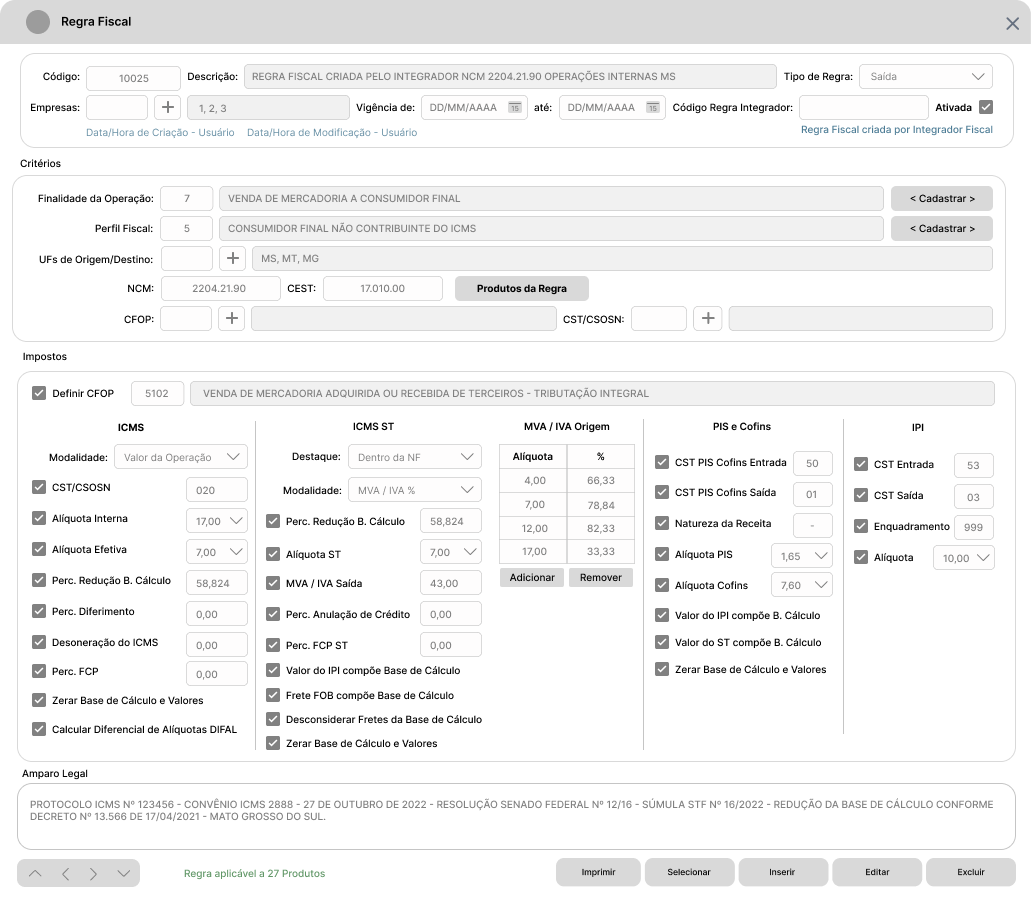
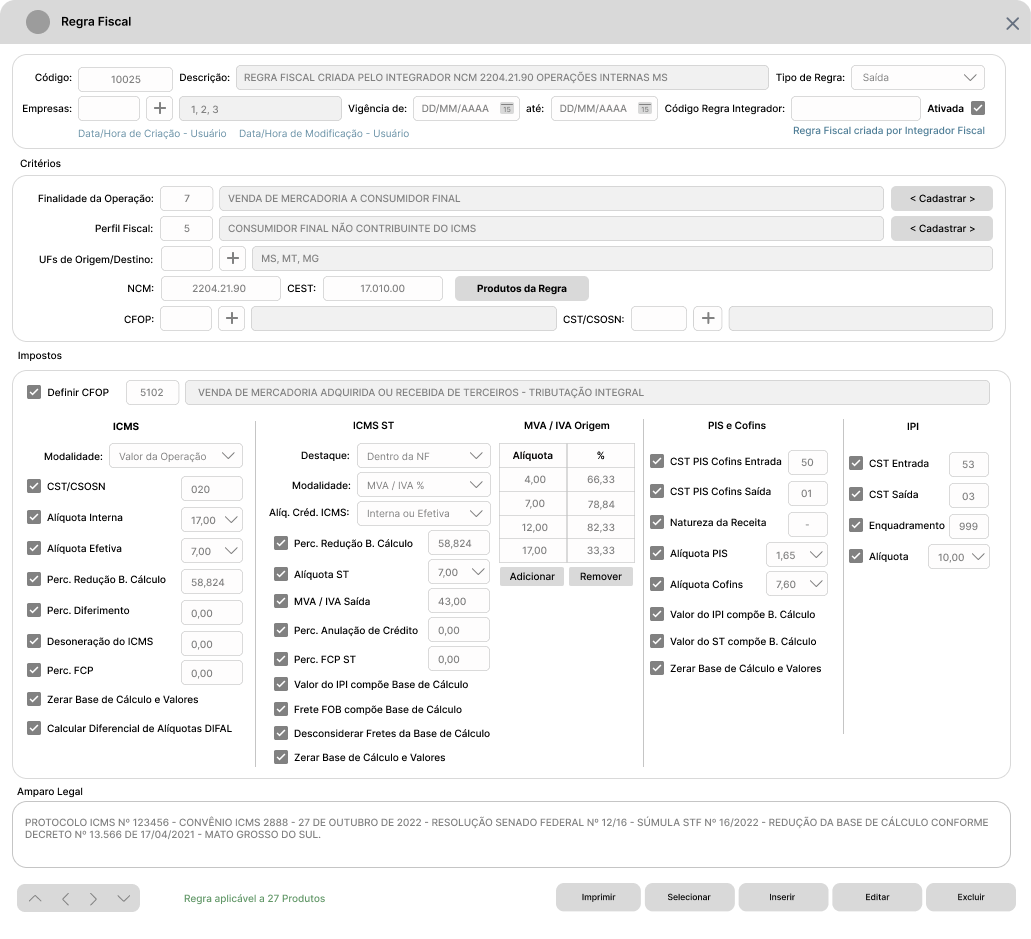
Atualizações da Regra Fiscal

diff --git a/Documentação - Integrações.md b/Documentação - Integrações.md
@@ -247,7 +247,7 @@ Nesta Seção são descritos os Ajustes e Novos Campos necessários, e descreve 
 | **Ajuste de Texto**                    | **Parâmetros Aplicáveis**                               | Alterar o Texto "Parâmetros Aplicáveis" para **"Impostos"**                                                                                                                                                                                                                                                                    | -                                                                                                                                                                                                                                                                                                                                                                                        |
 | **Remover**                            | Texto "Selecione abaixo os campos..."                   | Remover o Texto "Selecione abaixo os campos que serão modificados ao utilizar esta regra." do Grupo **"Impostos"**                                                                                                                                                                                                             | -                                                                                                                                                                                                                                                                                                                                                                                        |
 | Adicionar **Caixa de Combinação**      | ICMS / Modalidade                                       | Criar campo para seleção da Modalidade da Base de Cálculo do ICMS Normal, como ocorre com o ICMS ST com diferença nas Modalidades.                                                                                                                                                                                             | Deve existir as opções de **Valor da Operação (Padrão) e Pauta Fiscal**. Quando Pauta Fiscal, a Base de Cálculo do ICMS Normal deve ser calculada utilizando o Valor da Pauta Fiscal informada no Cadastro do Produto, multiplicando pela Quantidade Final do Produto, como ocorre com o ICMS ST. Não existindo uma Pauta Fiscal vigente, utilizar o Valor da Operação (cálculo padrão). |
-| Adicionar **Caixa de Seleção**         | ICMS / Alíquota Interna do ICMS                         | Criar Seleção para habilitar o preenchimento da Alíquota Interna utilizada em Documentos Fiscais.                                                                                                                                                                                                                              | Quando selecionada, habilita o campo de preenchimento da Alíquota.                                                                                                                                                                                                                                                                                                                       |
+| Adicionar **Caixa de Seleção**         | ICMS / Alíquota Interna do ICMS                         | Criar Seleção para habilitar o preenchimento da Alíquota Interna para a Regra Fiscal.                                                                                                                                                                                                                                          | Quando selecionada, habilita o campo de preenchimento da Alíquota.                                                                                                                                                                                                                                                                                                                       |
 | Adicionar **Caixa de Combinação**      | ICMS / Seleção da Alíquota Interna do ICMS              | Criar campo de Preenchimento da Alíquota Interna ou para armazenar a informação retornada pelo Integrador.                                                                                                                                                                                                                     | Listar Alíquotas do Cadastro de Tributos.                                                                                                                                                                                                                                                                                                                                                |
 | **Ajuste de Texto**                    | ICMS / Alíquota ICMS                                    | Alterar para **"Alíquota Efetiva"** que descreve a Alíquota Final a aplicar no Produto.                                                                                                                                                                                                                                        | -                                                                                                                                                                                                                                                                                                                                                                                        |
 | Adicionar **Caixa de Seleção**         | ICMS / Desoneração do ICMS                              | Criar Seleção para habilitar o Cálculo da Desoneração do ICMS.                                                                                                                                                                                                                                                                 | Quando selecionada, habilita o campo de preenchimento da Alíquota do ICMS Desonerado.                                                                                                                                                                                                                                                                                                    |
@@ -256,6 +256,7 @@ Nesta Seção são descritos os Ajustes e Novos Campos necessários, e descreve 
 | Adicionar **Campo Texto**              | **Amparo Legal**                                        | Criar campo para informar ou receber dados sobre a Legislação Vigente que rege as informações tributárias da Regra Fiscal criada.                                                                                                                                                                                              | Deve conter espaço para informar textos de até 1024 caracteres.                                                                                                                                                                                                                                                                                                                          |
 | **Ajuste de Texto**                    | ICMS ST / Lançamento                                    | Alterar a exibição do Texto do Campo para **"Destaque"** e o Texto da Opção **"Manter Original"** para **"Não Alterar"**                                                                                                                                                                                                       | -                                                                                                                                                                                                                                                                                                                                                                                        |
 | **Ajuste de Texto**                    | ICMS ST / Modalidade BC. ICMS...                        | Alterar a exibição do Texto para **"Modalidade"**                                                                                                                                                                                                                                                                              | -                                                                                                                                                                                                                                                                                                                                                                                        |
+| **Ajuste de Texto**                    | ICMS ST / Alíquota de Crédito do ICMS                   | Criar campo para definir a Alíquota de Crédito do ICMS para Cálculo do ICMS ST. Não trata-se da Alíquota de ICMS ST, e sim, da Alíquota que será utilizada para calcular o Valor do ICMS Normal que é deduzido do Valor do ICMS ST calculado.                                                                                  | Habilitar a seleção apenas se a Alíquota Interna e a Alíquota Efetiva estiverem selecionadas e preenchidas. Oferecer apenas as opções de "Alíquota Interna" e "Alíquota Efetiva".                                                                                                                                                                                                        |
 | Adicionar **Campo com Seleção**        | ICMS ST / MVA/IVA de Saída                              | Criar campo para informar o MVA de Saída para Cálculo do ICMS ST, que em diversos casos e operações é distinto de um MVA de Entrada.                                                                                                                                                                                           | Selecionar para habilitar o preenchimento do campo numérico com até 4 casas decimais.                                                                                                                                                                                                                                                                                                    |
 | Adicionar **Caixa de Seleção**         | ICMS ST / Frete FOB compõe Base de Cálculo              | Criar Seleção para indicar que o Frete por Fora da NF-e compõe a Base de Cálculo do ICMS ST formada pela **Modadalidade MVA**. Atualmente o Sistema não conta com esta definição, e em determinados casos deve ser considerado no Cálculo.                                                                                     | Se selecionado, somar o valor do Frete FOB na composição da Base de Cálculo do ICMS ST quando a **Modalidade** for igual a **MVA**                                                                                                                                                                                                                                                       |
 | Adicionar **Caixa de Seleção**         | ICMS ST / Desconsiderar Fretes Base de Cálculo          | Criar Seleção para indicar que Fretes CIF e FOB não devem compor a Base de Cálculo do ICMS ST. Aplica-se inicialmente ao Cálculo do ICMS ST por Pauta Fiscal, contudo, o usuário criador da Regra Fiscal poderá acionar esta função sempre que desejar.                                                                        | Quando selecionado, o Valores de Frete CIF e FOB não deverão ser considerados na Base de Cálculo do ICMS ST.                                                                                                                                                                                                                                                                             |
